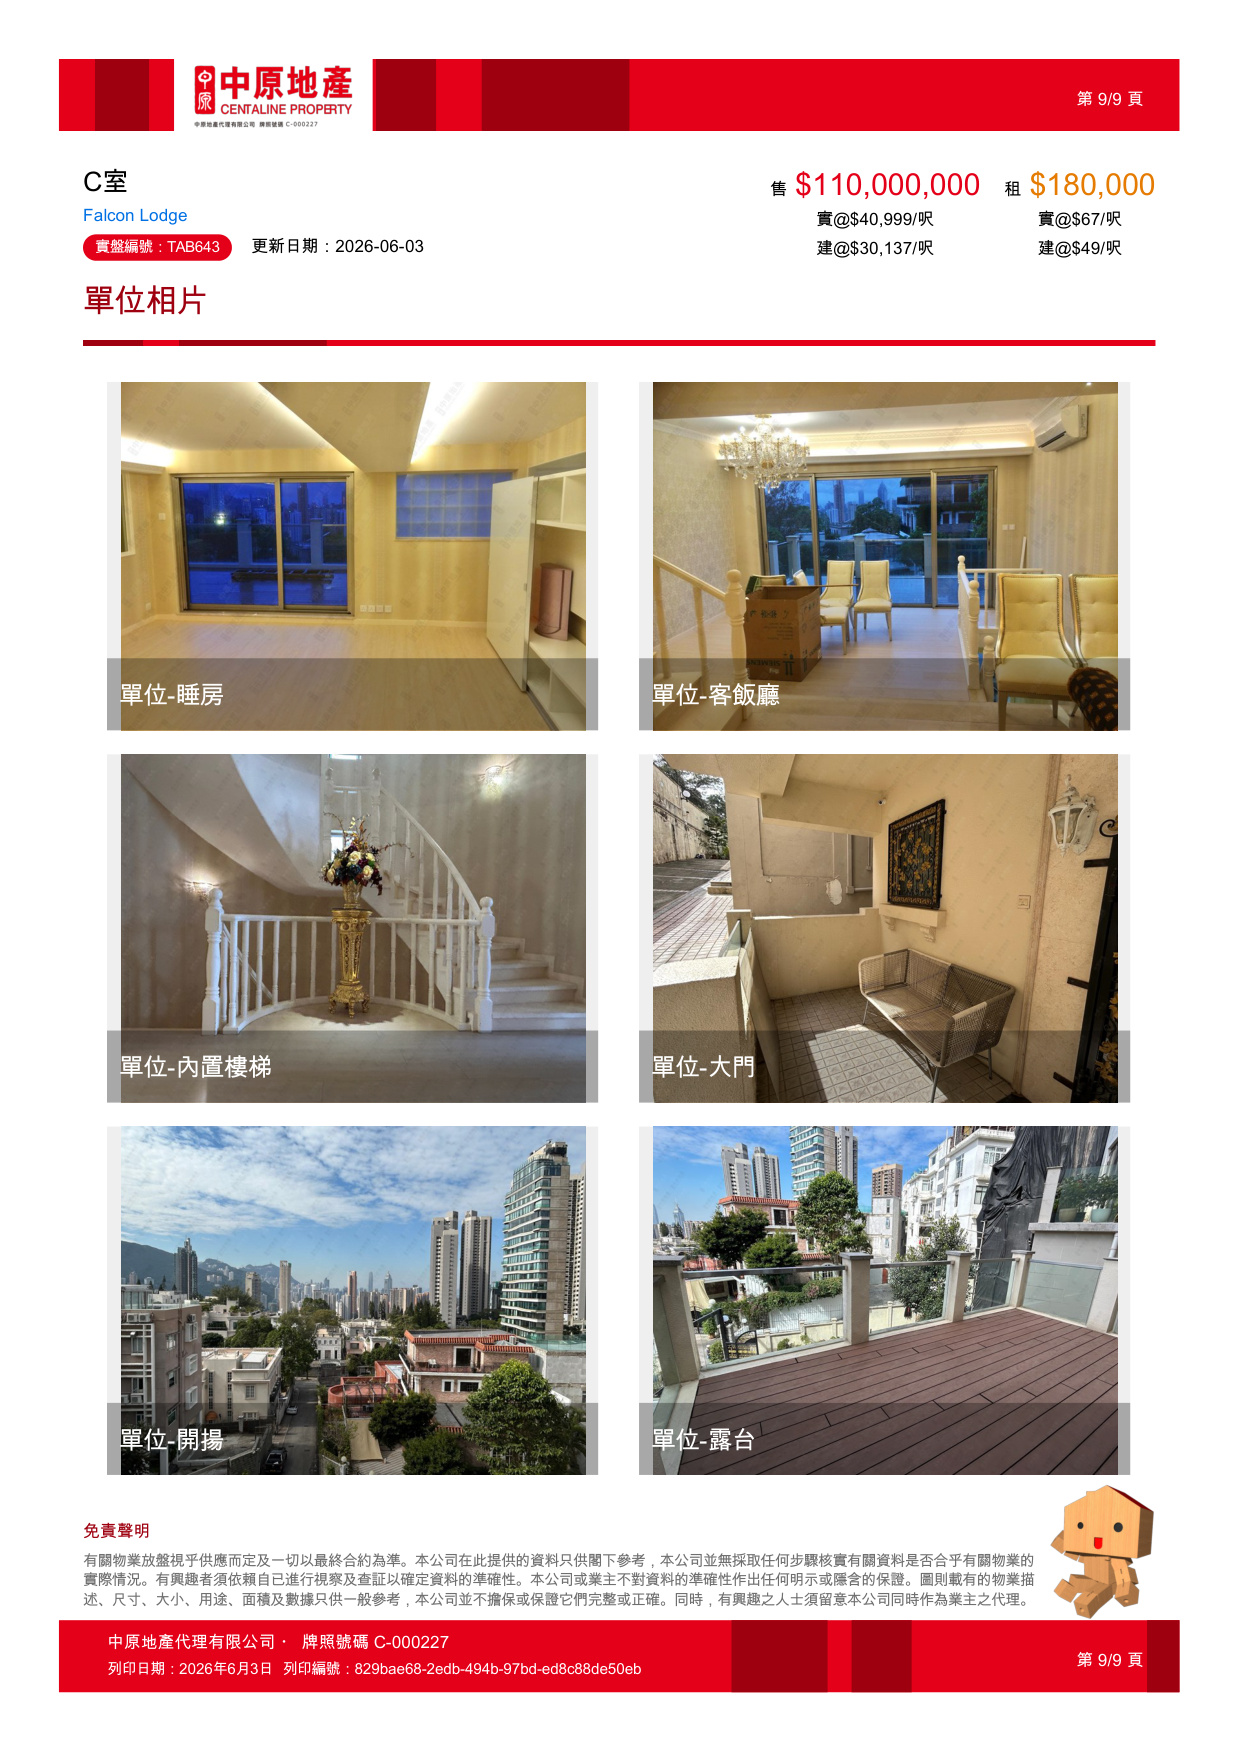
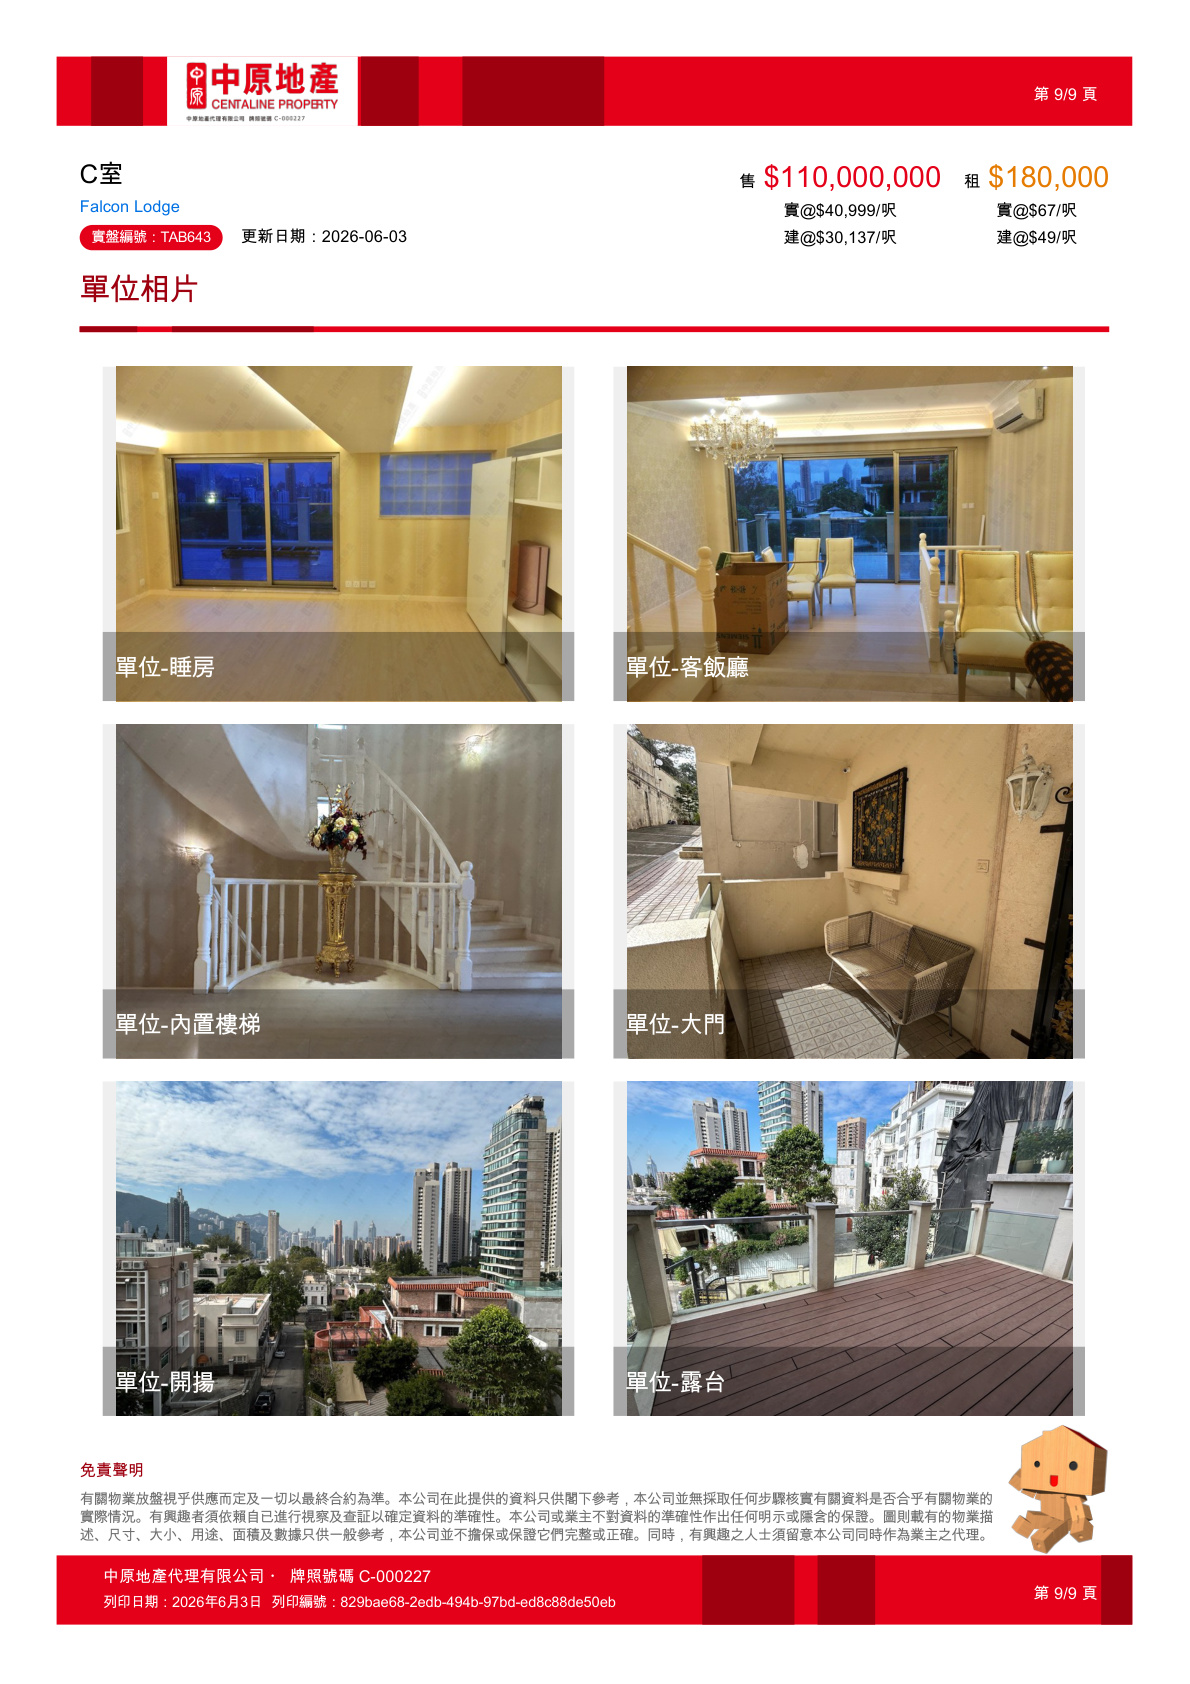
feat: 完善渣甸臺2号屋及4号屋全页相片支持 (方案A 原生多图画廊模式)

diff --git a/secondhand.html b/secondhand.html
@@ -343,7 +343,7 @@
         salesPerson: "Vincent",
         confirmDate: "2026-06-03",
         remarks: "渣甸臺罕有独栋洋房放盘，环境清幽私密，地段尊贵。",
-        photos: ["secondhand_images/zhadiantai_2_photos.jpg"],
+        photos: ["secondhand_images/zhadiantai_2_photos_1.jpg", "secondhand_images/zhadiantai_2_photos_2.jpg"],
         plan: ""
       },
       {
@@ -368,7 +368,7 @@
         salesPerson: "Vincent",
         confirmDate: "2026-06-03",
         remarks: "连约 WT 130k 至 2025年7月，租金回报稳定，优质收租资产。",
-        photos: ["secondhand_images/zhadiantai_4_photos.jpg"],
+        photos: ["secondhand_images/zhadiantai_4_photos_1.jpg", "secondhand_images/zhadiantai_4_photos_2.jpg"],
         plan: ""
       },
       {
@@ -488,7 +488,7 @@
         if (item.status === '自住') statusClass = "status-owner";
 
         const coverImg = item.photos && item.photos.length > 0 ? item.photos[0] : (item.plan || '');
-        const badgeText = item.photos && item.photos.length > 0 ? '📷 图' : (item.plan ? '📐 户型' : '无图');
+        const badgeText = item.photos && item.photos.length > 1 ? `📷 ${item.photos.length}张图` : (item.photos && item.photos.length === 1 ? '📷 图' : (item.plan ? '📐 户型' : '无图'));
 
         html += `
           <div class="card-scheme-b">
@@ -577,7 +577,8 @@
       if (!item) return;
       currentGalleryItem = item;
       document.getElementById("gTitle").innerText = `${item.estate} ${item.unit}`;
-      document.getElementById("gSubtitle").innerText = `${item.source} · 盘号 ${item.refNo}`;
+      const photoCountText = item.photos && item.photos.length > 1 ? ` · 共 ${item.photos.length} 页相片 (点击下方切换)` : '';
+      document.getElementById("gSubtitle").innerText = `${item.source} · 盘号 ${item.refNo}${photoCountText}`;
       switchGalleryTab('photos');
       document.getElementById("galleryModal").style.display = "flex";
     }
@@ -589,11 +590,21 @@
       const photoList = currentGalleryItem.photos || [];
       if (photoList.length > 0) {
         mainImg.src = photoList[0];
-        thumbsBox.innerHTML = photoList.map(src => `<div class="g-thumb active"><img src="${src}"></div>`).join('');
+        thumbsBox.innerHTML = photoList.map((src, idx) => `
+          <div class="g-thumb ${idx === 0 ? 'active' : ''}" onclick="setGalleryMain('${src}', this)" title="点击切换第 ${idx + 1} 页相片">
+            <img src="${src}">
+          </div>
+        `).join('');
       } else if (currentGalleryItem.plan) {
         mainImg.src = currentGalleryItem.plan;
         thumbsBox.innerHTML = `<div class="g-thumb active"><img src="${currentGalleryItem.plan}"></div>`;
       }
+    }
+
+    function setGalleryMain(src, el) {
+      document.getElementById("gMainImg").src = src;
+      document.querySelectorAll('.g-thumb').forEach(t => t.classList.remove('active'));
+      if (el) el.classList.add('active');
     }
 
     function closeGallery() { document.getElementById("galleryModal").style.display = "none"; }

diff --git a/web/secondhand.html b/web/secondhand.html
@@ -343,7 +343,7 @@
         salesPerson: "Vincent",
         confirmDate: "2026-06-03",
         remarks: "渣甸臺罕有独栋洋房放盘，环境清幽私密，地段尊贵。",
-        photos: ["secondhand_images/zhadiantai_2_photos.jpg"],
+        photos: ["secondhand_images/zhadiantai_2_photos_1.jpg", "secondhand_images/zhadiantai_2_photos_2.jpg"],
         plan: ""
       },
       {
@@ -368,7 +368,7 @@
         salesPerson: "Vincent",
         confirmDate: "2026-06-03",
         remarks: "连约 WT 130k 至 2025年7月，租金回报稳定，优质收租资产。",
-        photos: ["secondhand_images/zhadiantai_4_photos.jpg"],
+        photos: ["secondhand_images/zhadiantai_4_photos_1.jpg", "secondhand_images/zhadiantai_4_photos_2.jpg"],
         plan: ""
       },
       {
@@ -488,7 +488,7 @@
         if (item.status === '自住') statusClass = "status-owner";
 
         const coverImg = item.photos && item.photos.length > 0 ? item.photos[0] : (item.plan || '');
-        const badgeText = item.photos && item.photos.length > 0 ? '📷 图' : (item.plan ? '📐 户型' : '无图');
+        const badgeText = item.photos && item.photos.length > 1 ? `📷 ${item.photos.length}张图` : (item.photos && item.photos.length === 1 ? '📷 图' : (item.plan ? '📐 户型' : '无图'));
 
         html += `
           <div class="card-scheme-b">
@@ -577,7 +577,8 @@
       if (!item) return;
       currentGalleryItem = item;
       document.getElementById("gTitle").innerText = `${item.estate} ${item.unit}`;
-      document.getElementById("gSubtitle").innerText = `${item.source} · 盘号 ${item.refNo}`;
+      const photoCountText = item.photos && item.photos.length > 1 ? ` · 共 ${item.photos.length} 页相片 (点击下方切换)` : '';
+      document.getElementById("gSubtitle").innerText = `${item.source} · 盘号 ${item.refNo}${photoCountText}`;
       switchGalleryTab('photos');
       document.getElementById("galleryModal").style.display = "flex";
     }
@@ -589,11 +590,21 @@
       const photoList = currentGalleryItem.photos || [];
       if (photoList.length > 0) {
         mainImg.src = photoList[0];
-        thumbsBox.innerHTML = photoList.map(src => `<div class="g-thumb active"><img src="${src}"></div>`).join('');
+        thumbsBox.innerHTML = photoList.map((src, idx) => `
+          <div class="g-thumb ${idx === 0 ? 'active' : ''}" onclick="setGalleryMain('${src}', this)" title="点击切换第 ${idx + 1} 页相片">
+            <img src="${src}">
+          </div>
+        `).join('');
       } else if (currentGalleryItem.plan) {
         mainImg.src = currentGalleryItem.plan;
         thumbsBox.innerHTML = `<div class="g-thumb active"><img src="${currentGalleryItem.plan}"></div>`;
       }
+    }
+
+    function setGalleryMain(src, el) {
+      document.getElementById("gMainImg").src = src;
+      document.querySelectorAll('.g-thumb').forEach(t => t.classList.remove('active'));
+      if (el) el.classList.add('active');
     }
 
     function closeGallery() { document.getElementById("galleryModal").style.display = "none"; }
